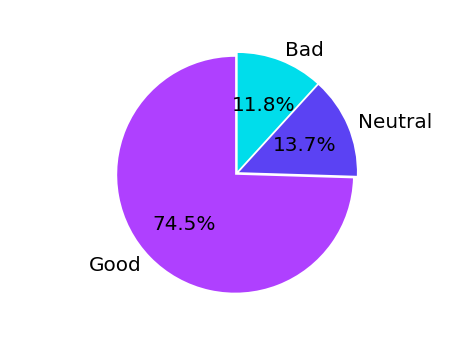
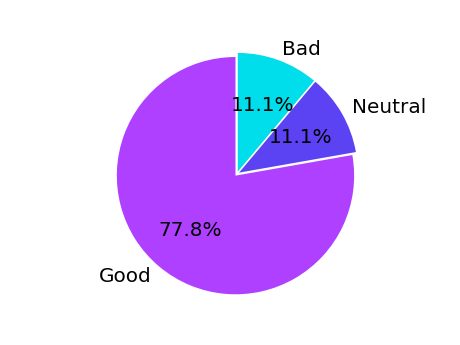
new update database

diff --git a/main.py b/main.py
@@ -18,6 +18,23 @@ from datetime import date
 import time
 from datetime import date
 from datetime import datetime
+import sqlite3
+con = sqlite3.connect('database.db', check_same_thread=False)
+
+
+
+def create_db(IP, Location, Day, Time, Feeling):
+    with con:
+        cur = con.cursor()
+        cur.execute("INSERT INTO alldata VALUES (?, ?, ?, ?, ?);", (IP, Location, Day, Time, Feeling))
+
+        ## call commit on the connection...
+        con.commit()
+        for row in cur.execute('SELECT * FROM alldata'):
+          print(row)
+
+
+
 
 
 
@@ -28,6 +45,9 @@ print(datetime_madrid)
 
 date_today2 = date.today()
 date_today = str(date_today2)
+
+
+
 
 
 
@@ -84,6 +104,11 @@ def main(): # Run the function
         ipaddress = "IP = " + ip1 + " -- Location = " + result3[3] + " -- Day = " + date_today + " -- Time = " + datetime_madrid + " -- Feeling = good" + "\n"
         f.write(ipaddress)
         f.close()
+      create_db(ip1, result3[3], date_today, datetime_madrid, "good")
+
+      
+
+
 
 
 
@@ -135,6 +160,7 @@ def main(): # Run the function
         ipaddress = "IP = " + ip1 + " -- Location = " + result3[3] + " -- Day = " + date_today + " -- Time = " + datetime_madrid + " -- Feeling = bad" + "\n"
         f.write(ipaddress)
         f.close()
+      create_db(ip1, result3[3], date_today, datetime_madrid, "bad")
 
 
 
@@ -186,14 +212,12 @@ def main(): # Run the function
         ipaddress = "IP = " + ip1 + " -- Location = " + result3[3] + " -- Day = " + date_today + " -- Time = " + datetime_madrid + " -- Feeling = neutral" + "\n"
         f.write(ipaddress)
         f.close()
+      create_db(ip1, result3[3], date_today, datetime_madrid, "neutral")
 
 
 
 
-    # Pass that input to the bot and get a result
-
-    # result = good_neutral_bad(input)
-
+  
     
     # render the index.html template but this time with result
     # which can be access in the template
@@ -245,8 +269,6 @@ def good_neutral_bad():
     return plt.savefig('static/plot.png', format="png", dpi=72)
   except:
     pass
-
-
 
 
 
